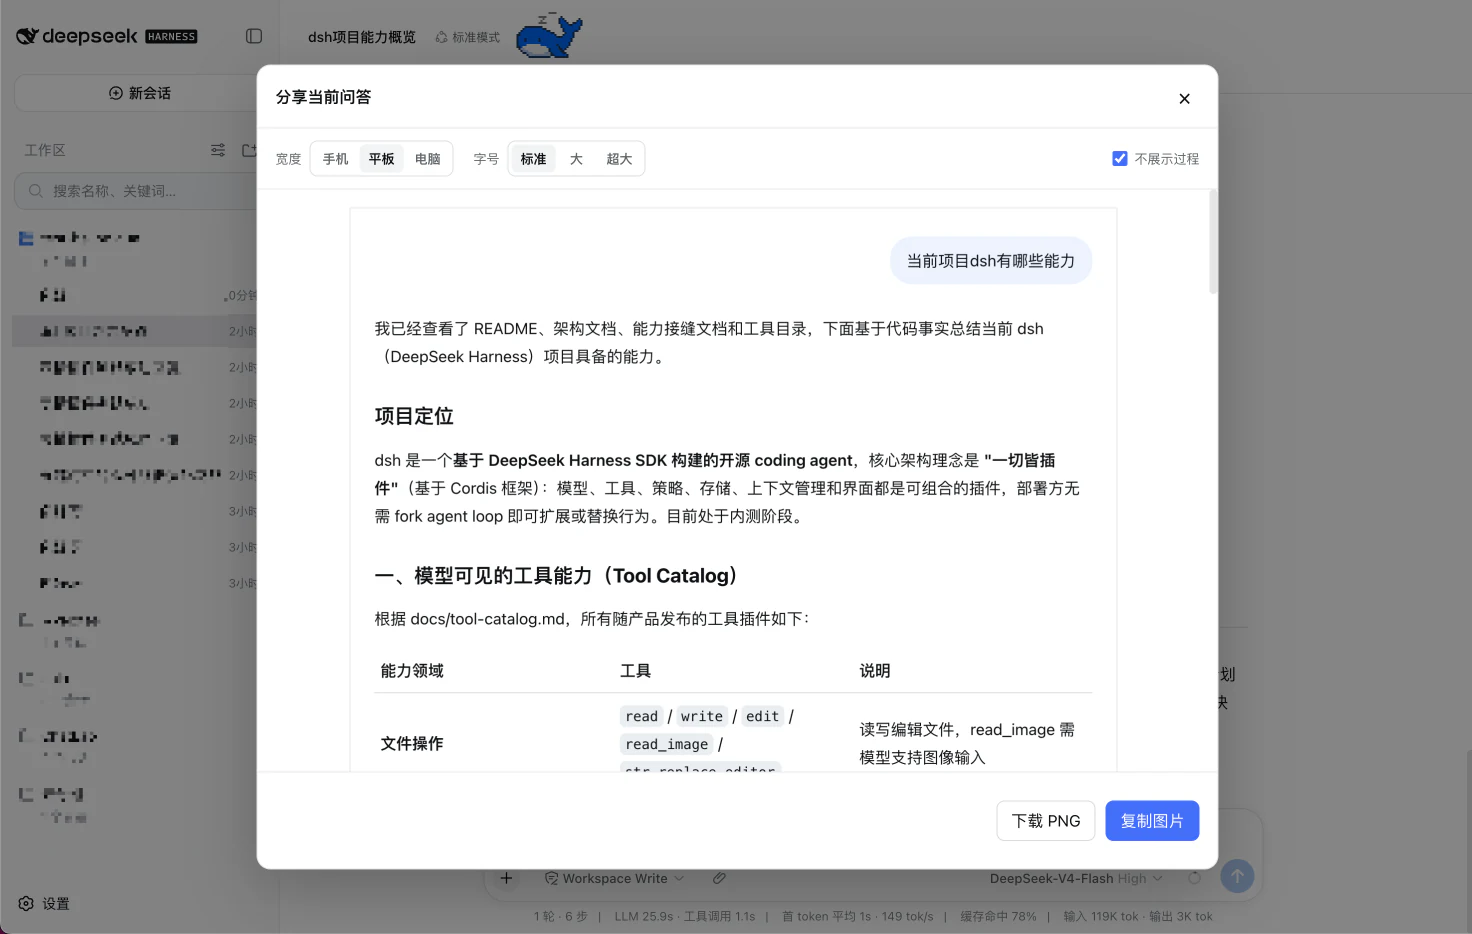
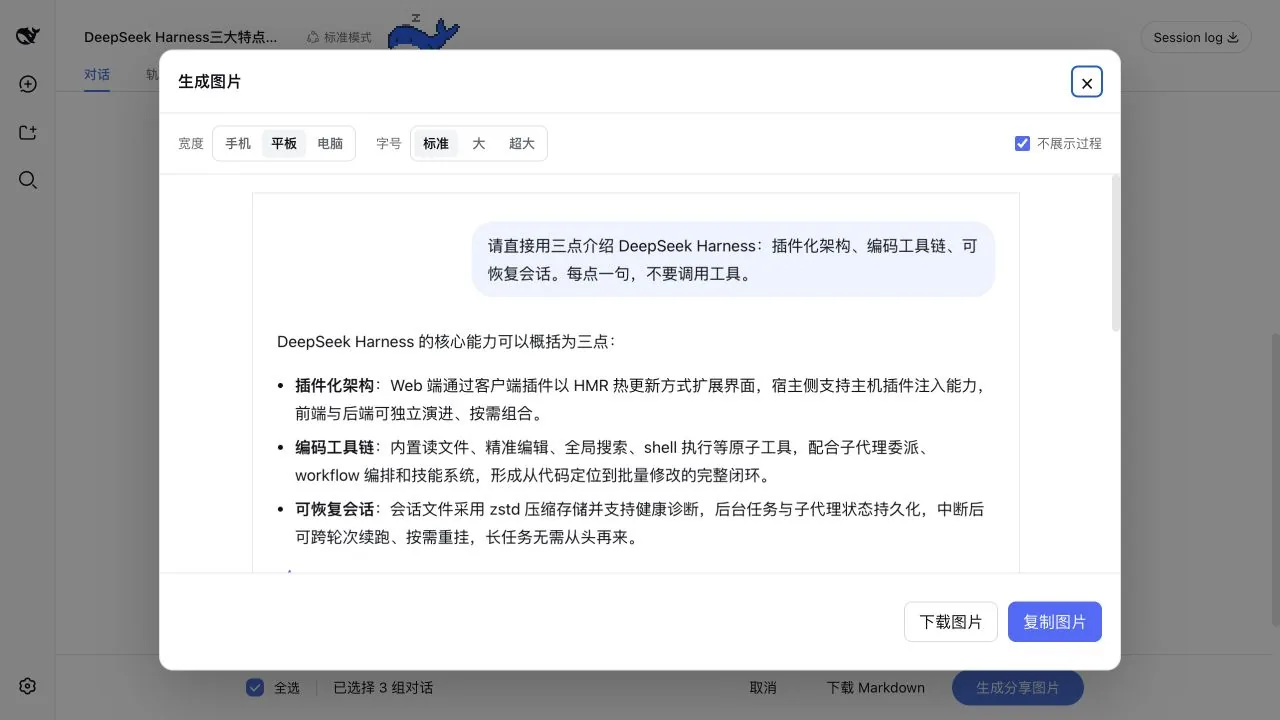
docs: refresh README showcase

diff --git a/tests/package.spec.ts b/tests/package.spec.ts
@@ -95,7 +95,6 @@ describe('DSH 插件清单', () => {
 
     expect(chineseReadme).toContain('[English](./README.en.md)')
     expect(chineseReadme).toContain('dsh plugin --profile web add dsh-share')
-    expect(chineseReadme).toContain('dsh-share@beta')
     expect(chineseReadme).toContain('conversation.chat.assistant-actions')
     expect(chineseReadme).toContain('conversation.session.header.utilities')
     expect(chineseReadme).toContain('下载 PNG 或 Markdown')
@@ -104,8 +103,11 @@ describe('DSH 插件清单', () => {
     expect(chineseReadme).toContain('不依赖 CSS Module 生成的类名')
     expect(chineseReadme).toContain('[dshfind.com](https://dshfind.com) DSH 插件超市')
     expect(englishReadme).toContain('[简体中文](./README.md)')
+    expect(chineseReadme).toContain('./assets/readme/share-selection.webp')
+    expect(chineseReadme).toContain('./assets/readme/share-dialog.webp')
+    expect(englishReadme).toContain('./assets/readme/share-selection.en.webp')
+    expect(englishReadme).toContain('./assets/readme/share-dialog.en.webp')
     expect(englishReadme).toContain('dsh plugin --profile web add dsh-share')
-    expect(englishReadme).toContain('dsh-share@beta')
     expect(englishReadme).toContain('conversation.chat.assistant-actions')
     expect(englishReadme).toContain('conversation.session.header.utilities')
     expect(englishReadme).toContain('PNG download, and Markdown download')

diff --git a/tests/release.spec.ts b/tests/release.spec.ts
@@ -42,7 +42,8 @@ function packReport(overrides: Record<string, unknown> = {}) {
     'package.json', 'lib/index.js', 'lib/client.js', 'lib/types/index.d.ts',
     'lib/types/client/index.d.ts', 'cordis.patch.yml', 'README.md',
     'README.en.md', 'CHANGELOG.md', 'LICENSE', 'THIRD_PARTY_LICENSES.md',
-    'assets/readme/share-dialog.webp',
+    'assets/readme/share-selection.webp', 'assets/readme/share-selection.en.webp',
+    'assets/readme/share-dialog.webp', 'assets/readme/share-dialog.en.webp',
   ].map(path => ({ mode: 0o644, path, size: 1 }))
   return JSON.stringify([{
     filename: `dsh-share-${FIXTURE_VERSION}.tgz`,

diff --git a/README.en.md b/README.en.md
@@ -4,7 +4,13 @@
 
 Share DSH Q&As or selected conversation groups as PNG or Markdown.
 
-![dsh-share dialog preview](./assets/readme/share-dialog.webp)
+Multi-select Q&As with an interaction consistent with DeepSeek's web app, then download the selection as Markdown.
+
+![dsh-share multi-turn Q&A selection](./assets/readme/share-selection.en.webp)
+
+Adjust the image width, font size, and process visibility before downloading or copying the result.
+
+![dsh-share image generation](./assets/readme/share-dialog.en.webp)
 
 ## Features
 
@@ -26,8 +32,6 @@ Add the plugin to the Web Profile with the DSH CLI, then restart `dsh web`:
 ```sh
 dsh plugin --profile web add dsh-share
 ```
-
-To try a prerelease, replace the package name in the installation command with `dsh-share@beta`. A plain `npm install dsh-share` only adds the package to the current Node.js project; it does not enable the DSH plugin.
 
 ## Other installation methods
 

diff --git a/README.md b/README.md
@@ -4,7 +4,13 @@
 
 DSH 对话分享插件，分享单轮或多轮对话，可导出为图片或 Markdown。
 
-![dsh-share 分享图片预览](./assets/readme/share-dialog.webp)
+和 DeepSeek 网页端一致的多选交互，同时支持将所选问答下载为 Markdown。
+
+![dsh-share 多轮问答选择](./assets/readme/share-selection.webp)
+
+生成图片前可调整宽度、字号和过程显示，完成后可下载或复制图片。
+
+![dsh-share 生成图片](./assets/readme/share-dialog.webp)
 
 ## 功能
 
@@ -26,8 +32,6 @@ DSH 对话分享插件，分享单轮或多轮对话，可导出为图片或 Mar
 ```sh
 dsh plugin --profile web add dsh-share
 ```
-
-如需体验预发布版本，将安装命令中的包名替换为 `dsh-share@beta`。普通 `npm install dsh-share` 只会把包加入当前 Node.js 项目，不会启用 DSH 插件。
 
 ## 其他安装方式
 
